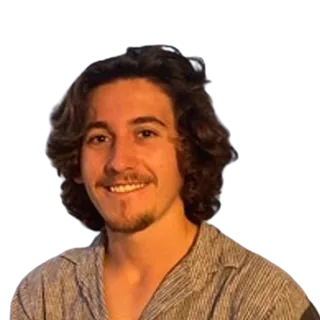
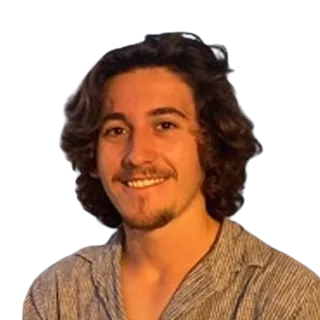
site: centre founder headshot, tighten maker note to one paragraph

diff --git a/site/src/content/founder-note.ts b/site/src/content/founder-note.ts
@@ -12,8 +12,7 @@ export const founderNote = {
     alt: "Tony Cerqui, smiling, with shoulder-length curly brown hair",
   },
   quote: [
-    "Hi, I'm Tony. Code got cheap to write and hard to hold in your head, so I started writing down the ideas that actually matter - named, and linked to the code and tests that prove them. reqlan grew out of that, and it's built using itself.",
-    "Honest status: it's mostly one person and a fair few AI agents, some of it is still pretty vibe coded, and the roadmap above is the real one. If something breaks or doesn't make sense, I'd genuinely like to hear about it.",
+    "Hi, I'm Tony. These days code's easy to write but hard to keep in your head, especially with AI agents doing half the typing. reqlan started as my way of writing down the ideas that actually matter and tying them to the code that proves them. It's mostly just me (plus a few agents), and it's built using itself. In a sea of agents, I'm a real, friendly human on the other end, so if it helps you, breaks on you, or you just need a hand, let me know.",
   ],
   name: "Tony Cerqui",
   role: "Process engineer & software developer · Brisbane, Australia",

diff --git a/site/src/components/FounderNote.module.css b/site/src/components/FounderNote.module.css
@@ -1,6 +1,6 @@
 .card {
   display: flex;
-  align-items: flex-start;
+  align-items: center;
   gap: 1.5rem;
   max-width: 42rem;
   margin: 0;
@@ -20,6 +20,7 @@
   height: 6rem;
   border-radius: 50%;
   object-fit: cover;
+  object-position: center;
   background: color-mix(in srgb, var(--color-rust) 22%, var(--color-surface-raised));
   border: 2px solid color-mix(in srgb, var(--color-aqua) 35%, var(--color-border));
 }
@@ -93,12 +94,17 @@
 @media (max-width: 560px) {
   .card {
     flex-direction: column;
+    align-items: center;
     gap: 1rem;
     padding: 1.1rem 1.15rem;
   }
 
   .photo {
-    width: 5rem;
-    height: 5rem;
+    width: 5.5rem;
+    height: 5.5rem;
+  }
+
+  .body {
+    align-self: stretch;
   }
 }

diff --git a/site/src/content/founder-note.test.ts b/site/src/content/founder-note.test.ts
@@ -11,7 +11,9 @@ describe("founder note", () => {
   });
 
   it("keeps the note short and signed", () => {
-    assert.ok(founderNote.quote.length <= 2);
+    assert.equal(founderNote.quote.length, 1);
+    assert.match(founderNote.quote[0], /real, friendly human/);
+    assert.doesNotMatch(founderNote.quote.join(" "), /Honest status/);
     assert.equal(founderNote.name, "Tony Cerqui");
   });
 
